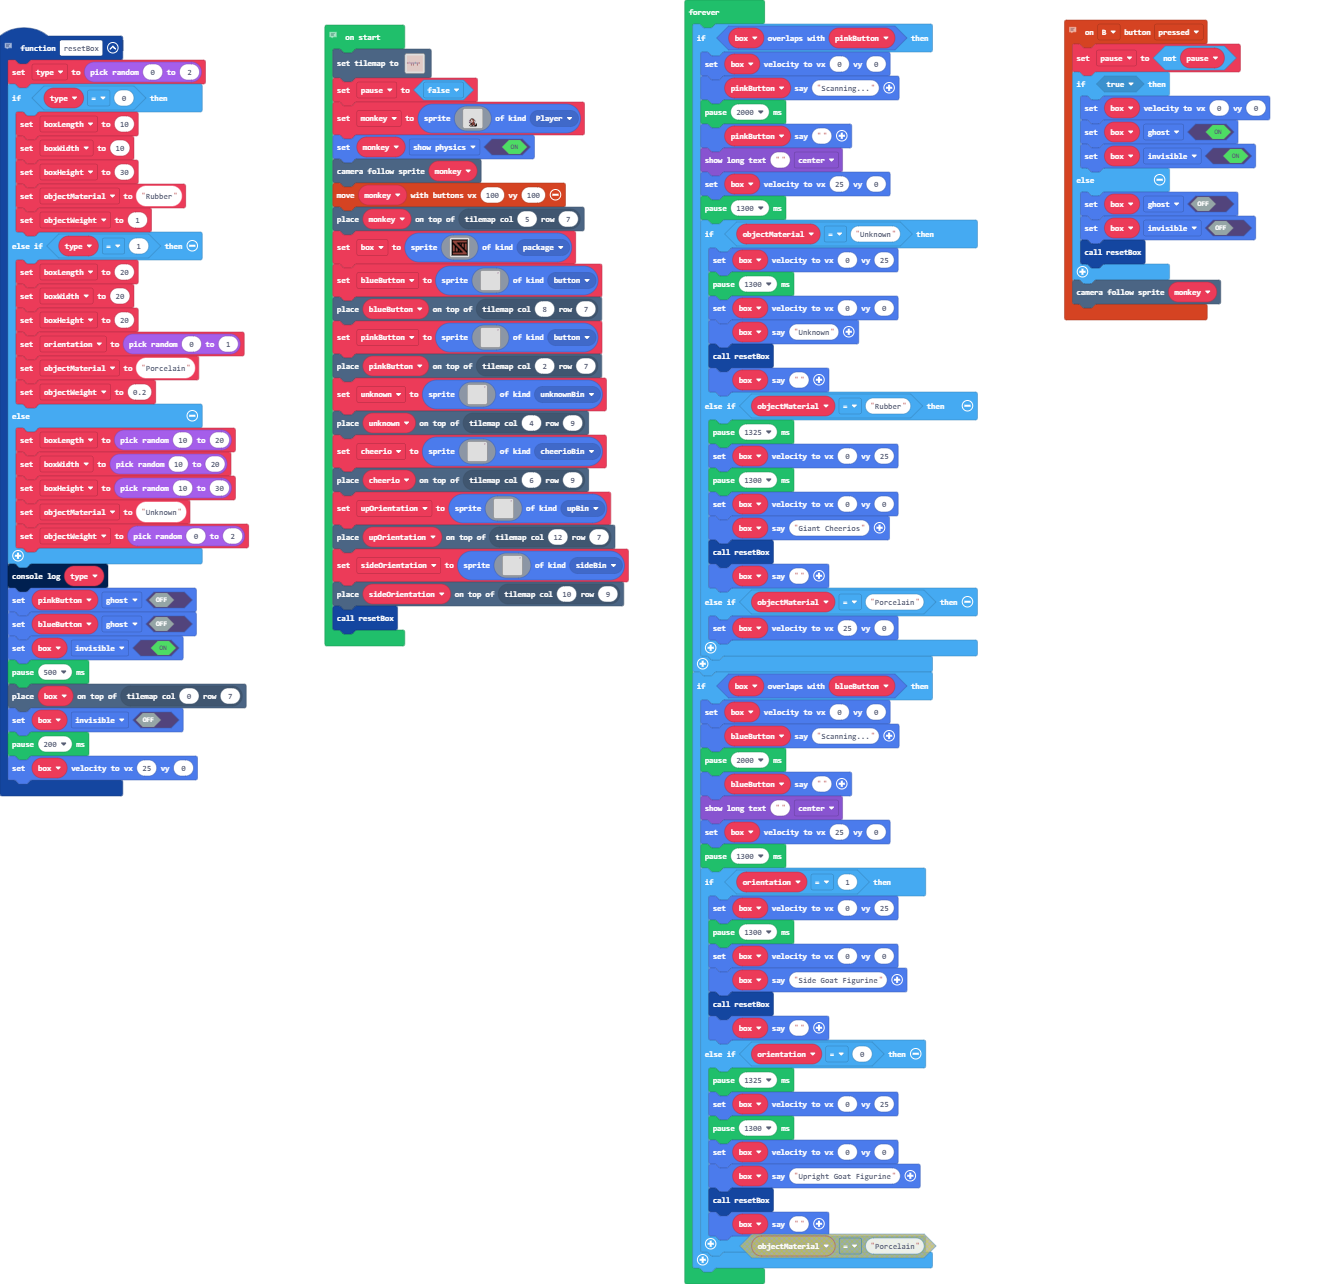
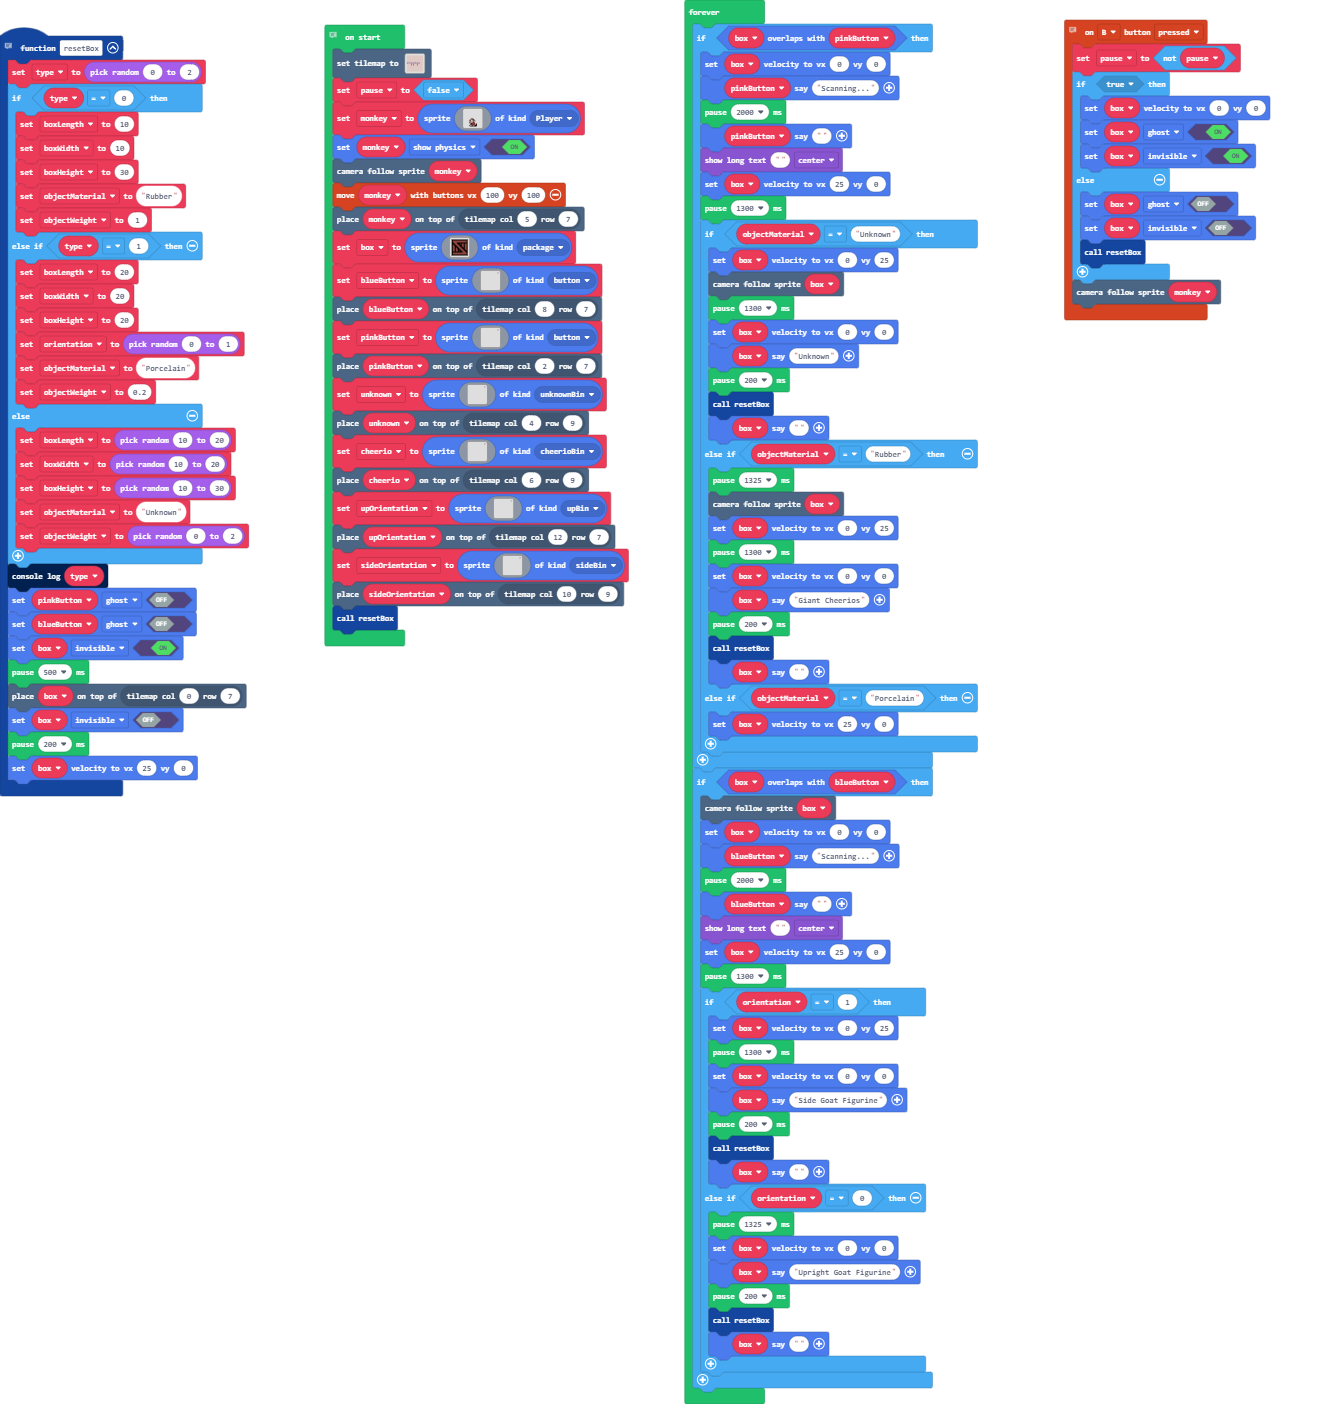
Update main.blocks, main.ts

diff --git a/main.ts b/main.ts
@@ -269,17 +269,21 @@ forever(function () {
         pause(1300)
         if (objectMaterial == "Unknown") {
             box.setVelocity(0, 25)
+            scene.cameraFollowSprite(box)
             pause(1300)
             box.setVelocity(0, 0)
             box.say("Unknown")
+            pause(200)
             resetBox()
             box.say("")
         } else if (objectMaterial == "Rubber") {
             pause(1325)
+            scene.cameraFollowSprite(box)
             box.setVelocity(0, 25)
             pause(1300)
             box.setVelocity(0, 0)
             box.say("Giant Cheerios")
+            pause(200)
             resetBox()
             box.say("")
         } else if (objectMaterial == "Porcelain") {
@@ -287,6 +291,7 @@ forever(function () {
         }
     }
     if (box.overlapsWith(blueButton)) {
+        scene.cameraFollowSprite(box)
         box.setVelocity(0, 0)
         blueButton.say("Scanning...")
         pause(2000)
@@ -299,14 +304,14 @@ forever(function () {
             pause(1300)
             box.setVelocity(0, 0)
             box.say("Side Goat Figurine")
+            pause(200)
             resetBox()
             box.say("")
         } else if (orientation == 0) {
             pause(1325)
-            box.setVelocity(0, 25)
-            pause(1300)
             box.setVelocity(0, 0)
             box.say("Upright Goat Figurine")
+            pause(200)
             resetBox()
             box.say("")
         }
